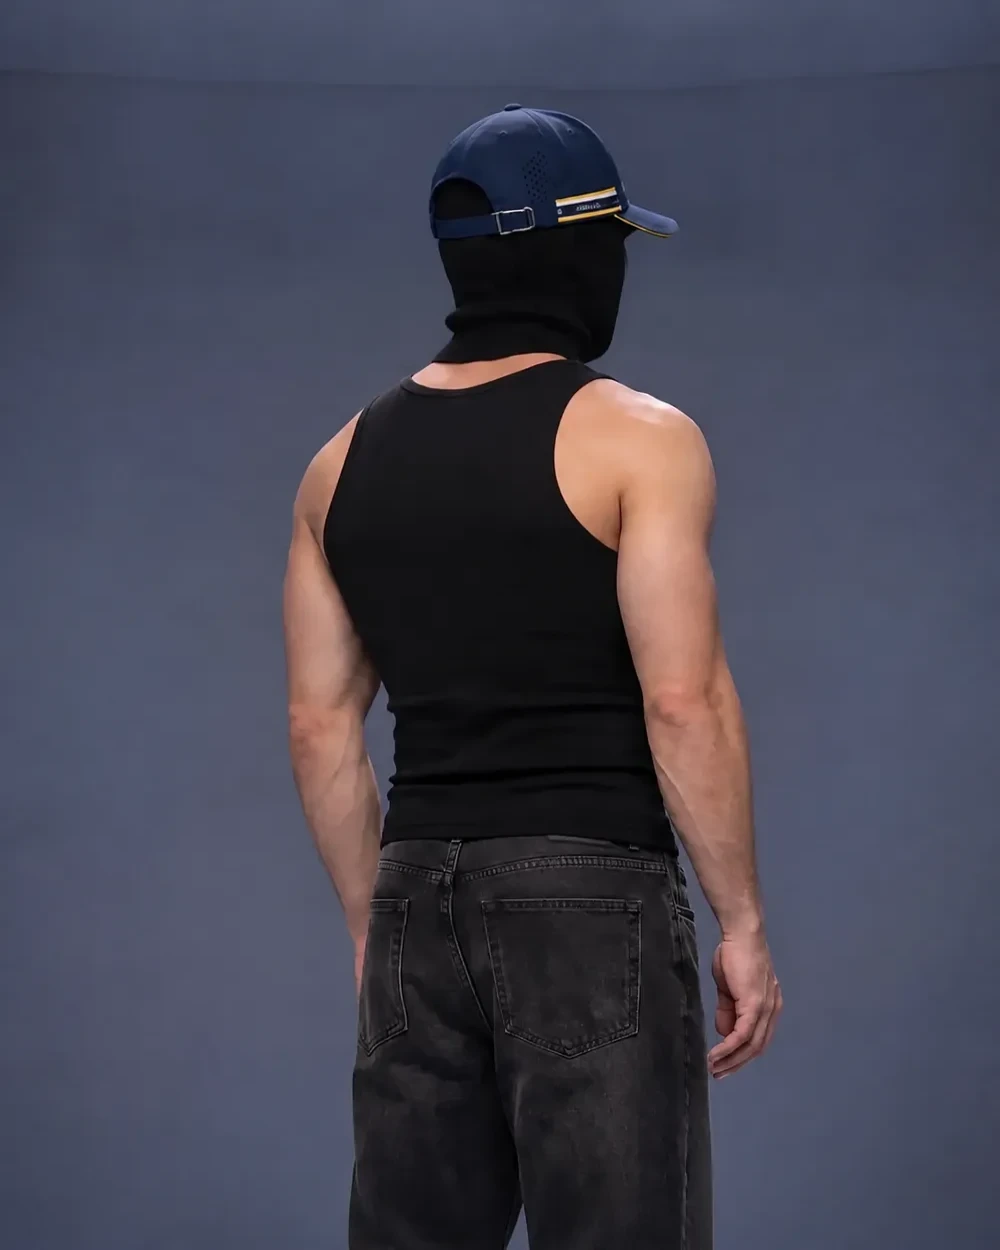
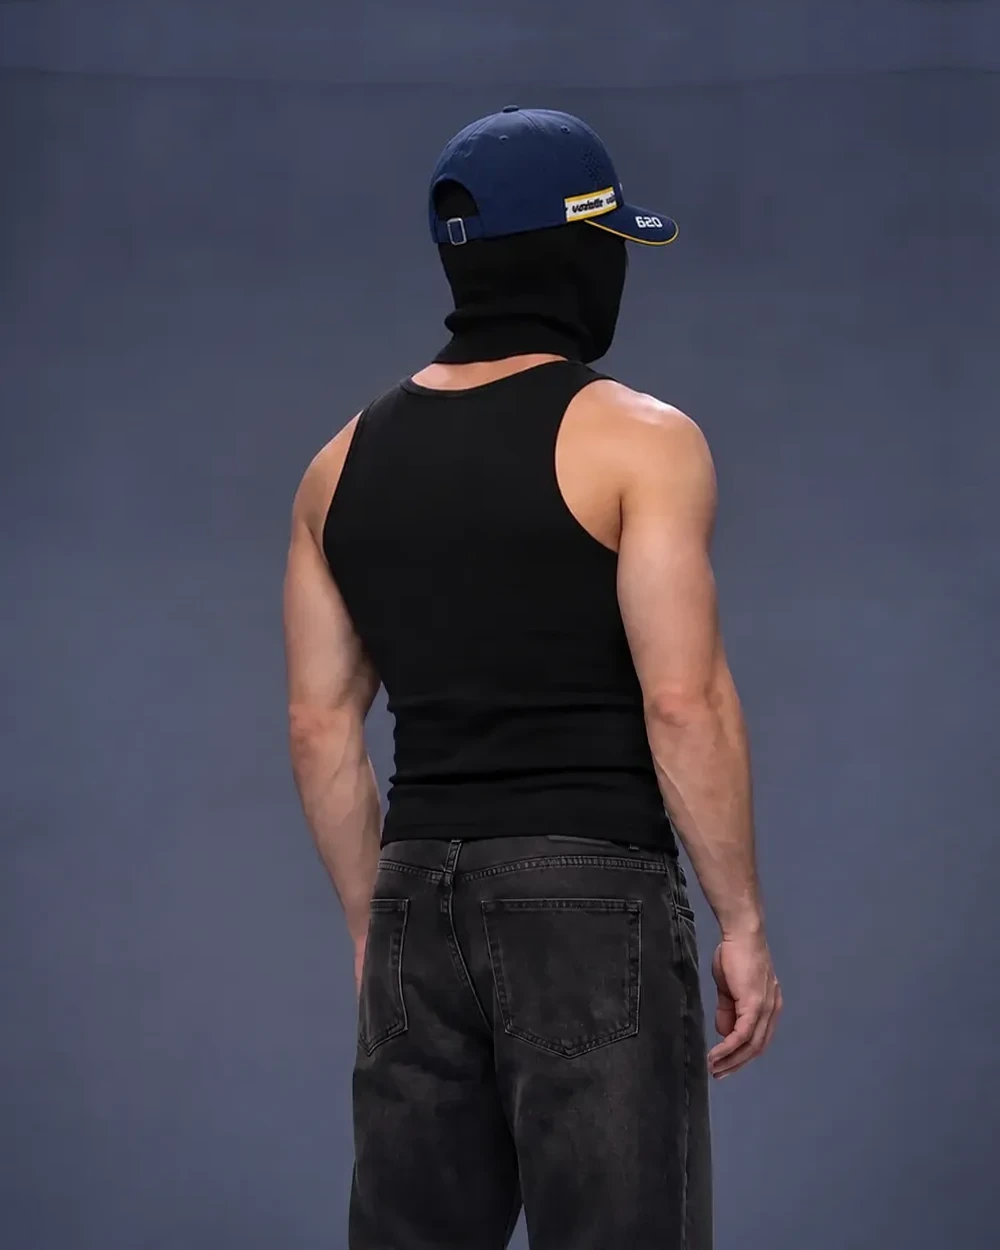
Cabine heart cap: redo views 6/8 and 7/8 from the real cap ribbon
Claude-Session: https://claude.ai/code/session_01JHKczBwFKYFofkfxCnLE6j

Changed region(s): [[0.434, 0.0936, 0.682, 0.2184], [0.496, 0.0624, 0.589, 0.1248], [0.434, 0.2808, 0.558, 0.312]]

diff --git a/src/components/collection/CabineViewer.tsx b/src/components/collection/CabineViewer.tsx
@@ -5,7 +5,7 @@ import { useZoom } from "@/lib/use-zoom";
 
 export const CABINE_FRAMES = 8;
 /** Bump when the fitting-room photos change: busts copies cached by phones. */
-const CABINE_VERSION = "20261016j";
+const CABINE_VERSION = "20261016k";
 /** Degrees turned per pixel dragged: one viewport width is half a turn. */
 const DEG_PER_PX = 0.45;
 const FRICTION = 0.92;
